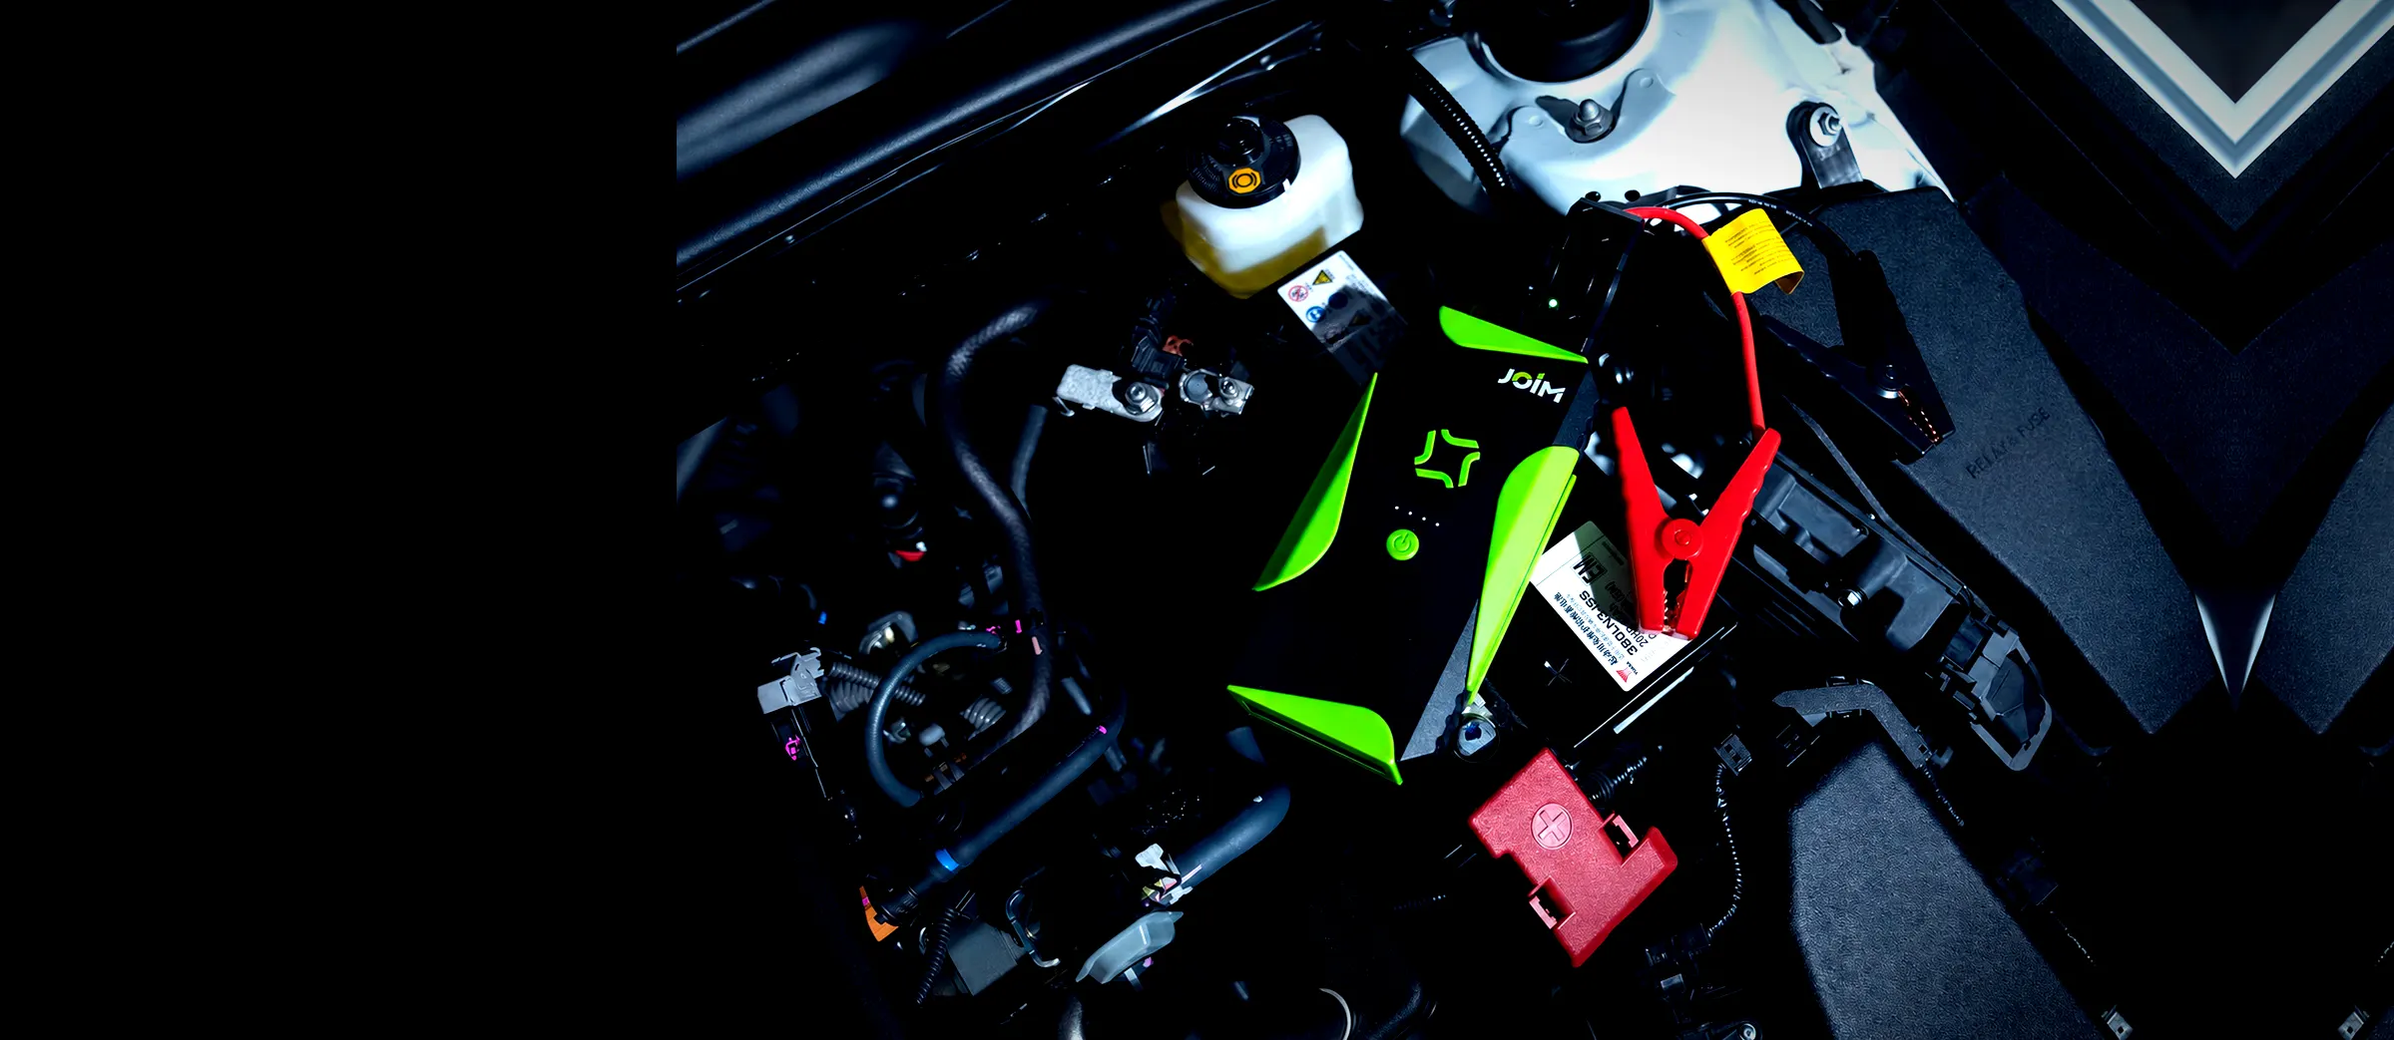
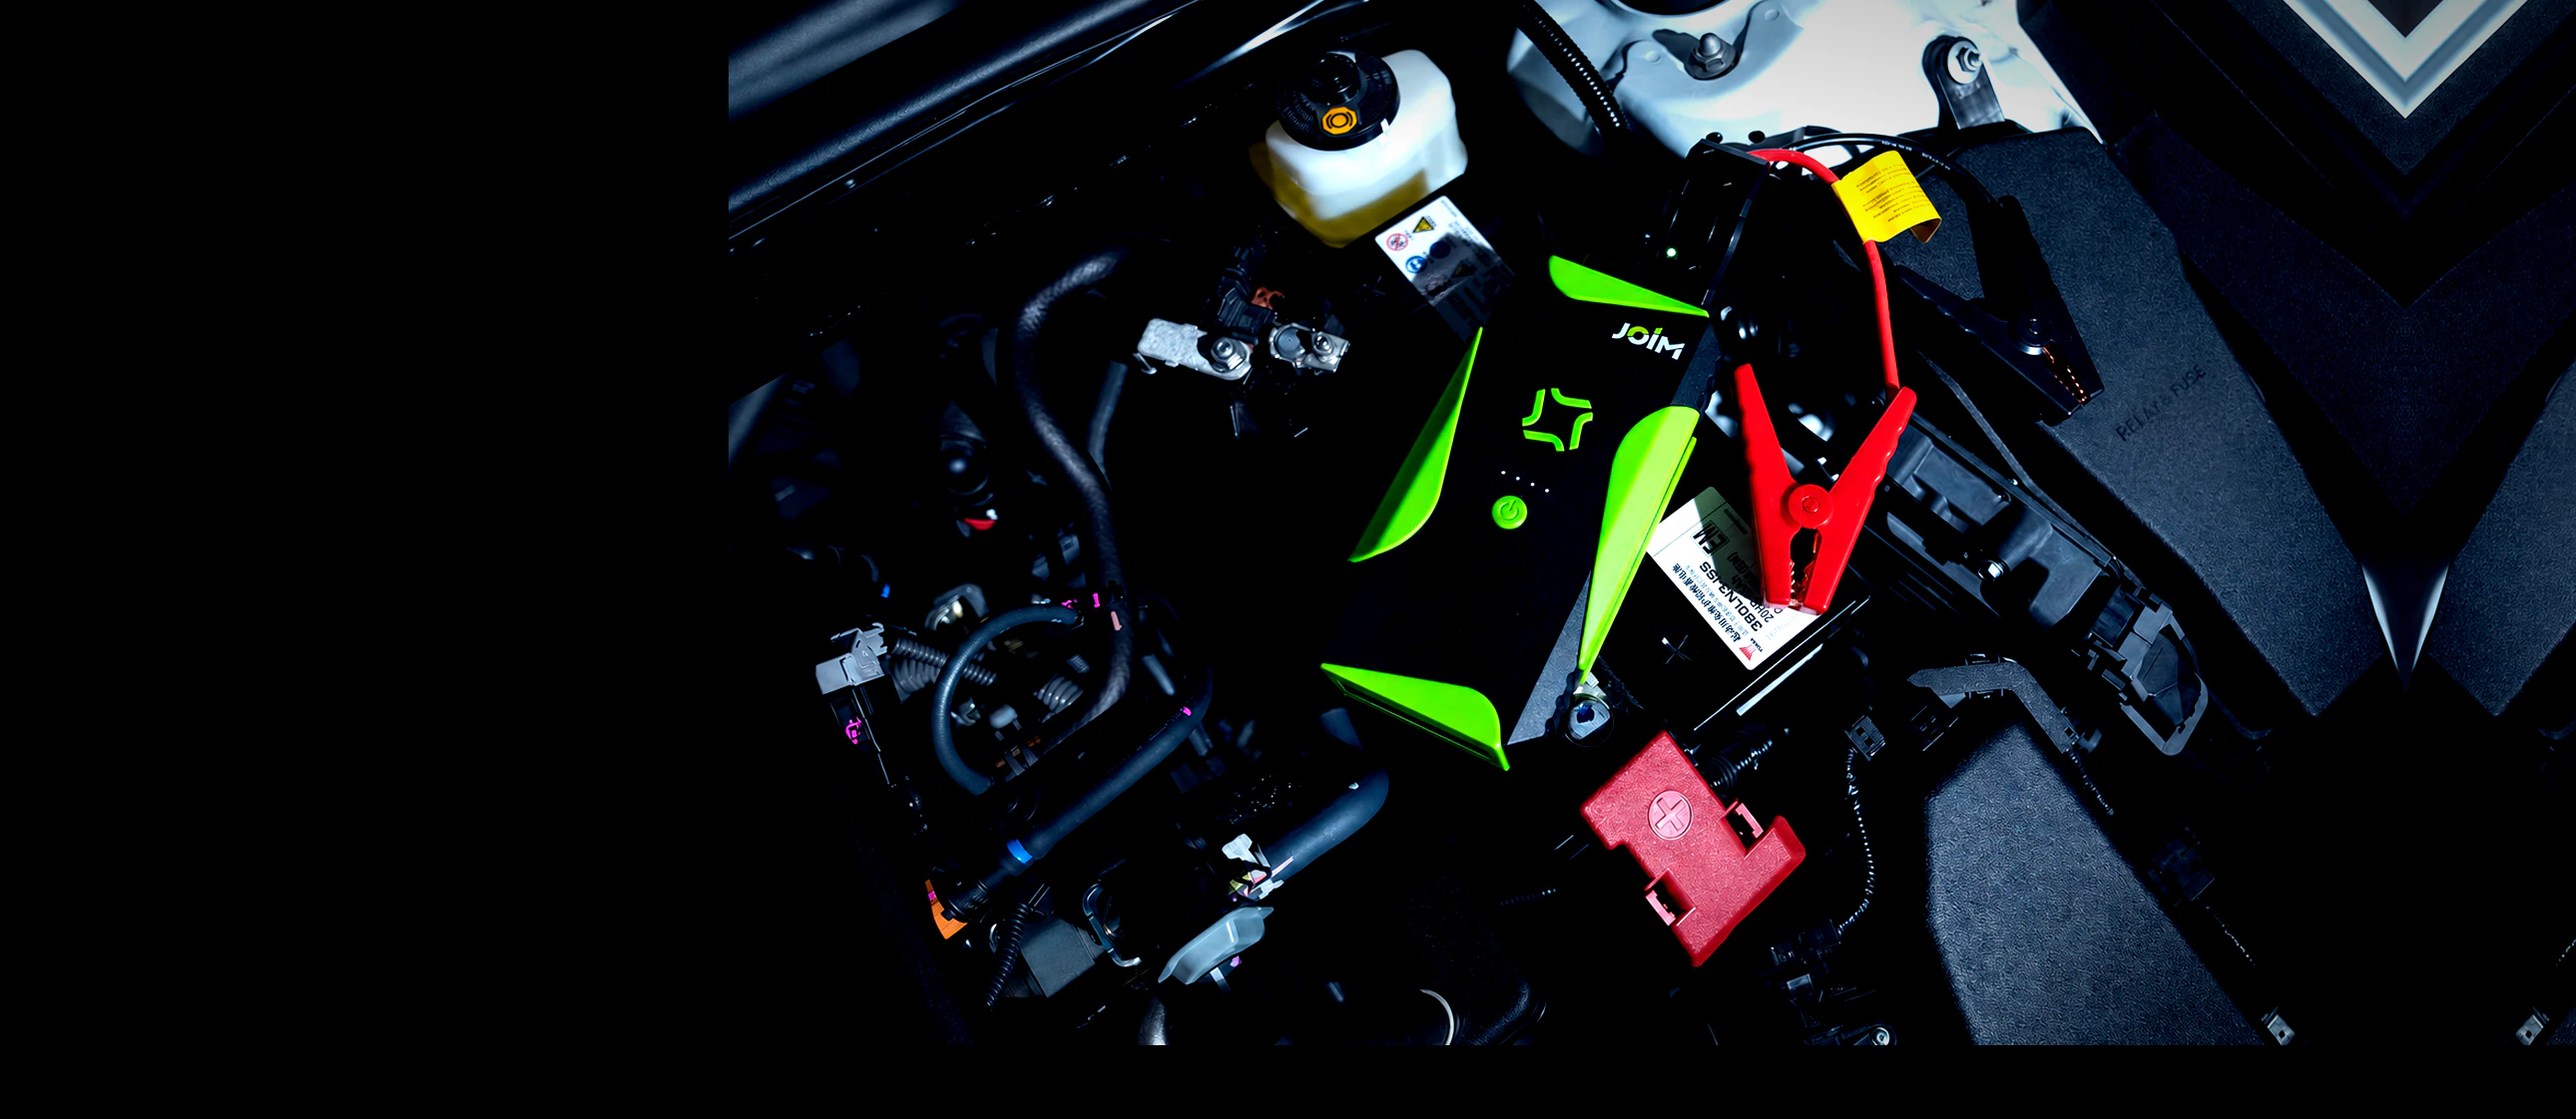
Прибор в hero выше, кадр в полном качестве
Срез сверху и равное ему поле снизу поднимают предмет на 61 px, не меняя
масштаба. Снимок больше не пересэмплируется: поля заданы долями, кадр
идёт в webp в своём разрешении. Качество webp 78 → 92, quality={92}
на Image с разрешением в next.config.

diff --git a/next.config.ts b/next.config.ts
@@ -13,6 +13,14 @@ const nextConfig: NextConfig = {
     root: path.resolve(import.meta.dirname),
   },
 
+  images: {
+    // С шестнадцатой версии список качеств закрыт, и 75 — единственное
+    // разрешённое по умолчанию. 92 добавлено ради фона первого экрана:
+    // он один растянут во всю ширину окна, и пережатие на нём видно.
+    // Остальные картинки остаются на 75.
+    qualities: [75, 92],
+  },
+
   // Товары переехали с `/catalog/[slug]` на `/product/[slug]`: сегмент
   // после `/catalog/` занят категориями. Слаги перечислены поимённо —
   // общее правило перехватывало бы и сами категории.

diff --git a/components/sections/Hero.tsx b/components/sections/Hero.tsx
@@ -63,6 +63,7 @@ export function Hero() {
           fill
           loading="eager"
           sizes="100vw"
+          quality={92}
           className="object-cover object-[64%_50%] lg:object-[50%_50%]"
         />
         <Image
@@ -71,6 +72,7 @@ export function Hero() {
           fill
           preload
           sizes="100vw"
+          quality={92}
           className="object-cover object-[64%_50%] animate-hero-swap lg:object-[50%_50%]"
         />
         {/* Диагональная завеса рассчитана на широкий экран: слева плотно
